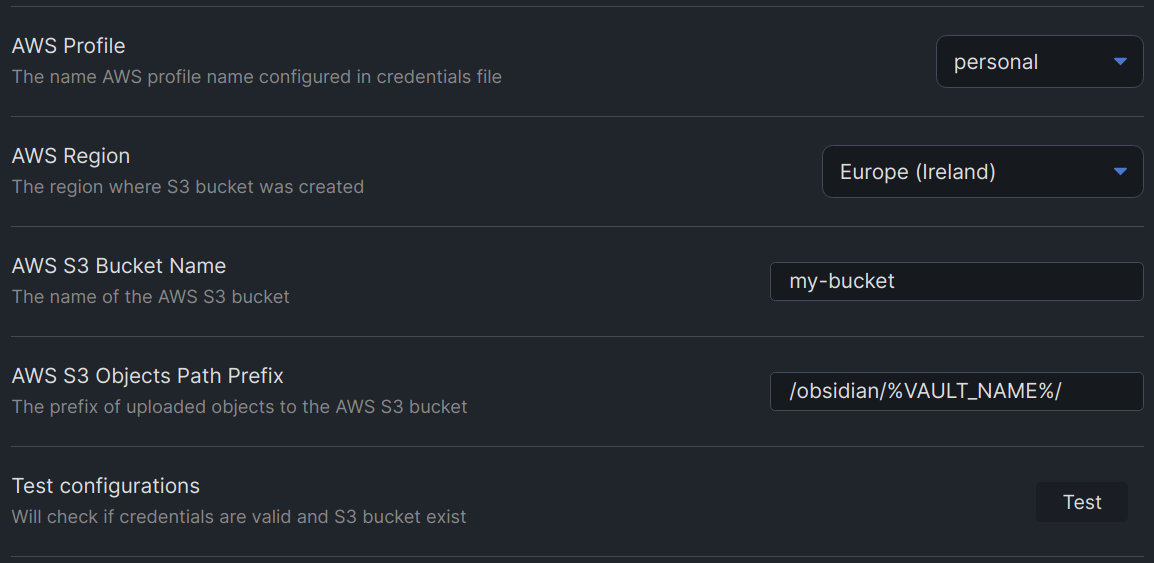
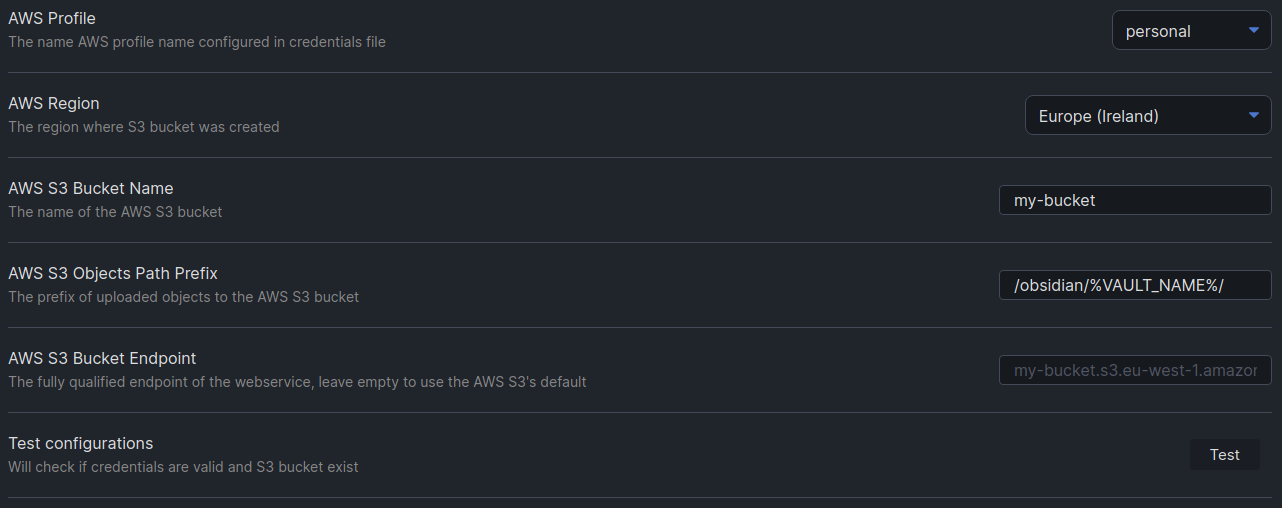
Add AWS S3 bucket endpoint configuration

diff --git a/src/settings-tab.ts b/src/settings-tab.ts
@@ -69,6 +69,17 @@ export default class AwsSyncSettingTab extends PluginSettingTab {
 				}))
 
 		new Setting(containerEl)
+			.setName('AWS S3 Bucket Endpoint')
+			.setDesc('The fully qualified endpoint of the webservice, leave empty to use the AWS S3\'s default')
+			.addText(text => text
+				.setValue(this.plugin.settings.bucketEndpoint)
+				.setPlaceholder(`${this.plugin.settings.bucketName}.s3.${this.plugin.settings.region}.amazonaws.com`)
+				.onChange(async (value) => {
+					this.plugin.settings.bucketEndpoint = value
+					await this.plugin.saveSettings()
+				}))
+
+		new Setting(containerEl)
 			.setName('Test configurations')
 			.setDesc('Will check if credentials are valid and S3 bucket exist')
 			.addButton(button => button

diff --git a/src/main.ts b/src/main.ts
@@ -111,6 +111,7 @@ export default class AwsSyncPlugin extends Plugin {
 		this.fileManager = new FileManager(this.app.vault, this.getConfiguredProfile(), {
 			bucketName: this.getConfiguredBucketName(),
 			pathPrefix: this.getConfiguredBucketPathPrefix(),
+			endpoint: this.getConfiguredBucketEndpoint(),
 			region: this.settings.region
 		}, {
 			direction: this.settings.syncDirection,
@@ -280,6 +281,10 @@ export default class AwsSyncPlugin extends Plugin {
 		}
 		prefix = prefix.replace('%VAULT_NAME%', this.app.vault.getName())
 		return prefix
+	}
+
+	getConfiguredBucketEndpoint(): string {
+		return this.settings.bucketEndpoint
 	}
 
 	async loadSettings(): Promise<void> {

diff --git a/src/lib/filemanager.ts b/src/lib/filemanager.ts
@@ -180,6 +180,7 @@ export interface BucketOption {
   bucketName: string
   pathPrefix: string
   region: string
+  endpoint: string
 }
 
 export default class FileManager {
@@ -200,7 +201,8 @@ export default class FileManager {
   getS3Client(): S3Client {
     return new S3Client({
       credentials: this.profile.getCredentials(),
-      region: this.bucketOpt.region
+      region: this.bucketOpt.region,
+      endpoint: this.bucketOpt.endpoint || this.bucketOpt.endpoint.trim() !== '' ? this.bucketOpt.endpoint : undefined
     })
   }
 

diff --git a/src/settings.ts b/src/settings.ts
@@ -5,6 +5,7 @@ export default interface AwsSyncPluginSettings {
 	region: string;
 	bucketName: string;
 	bucketPathPrefix: string;
+	bucketEndpoint: string;
 	localFileProtection: boolean;
 	syncDirection: SyncDirection;
 	enableStatusBar: boolean;
@@ -20,6 +21,7 @@ export const DEFAULT_SETTINGS: AwsSyncPluginSettings = {
 	region: 'us-east-1',
 	bucketName: '',
 	bucketPathPrefix: '/%VAULT_NAME%/',
+	bucketEndpoint: '',
 	localFileProtection: true,
 	syncDirection: SyncDirection.FROM_LOCAL,
 	enableStatusBar: true,
